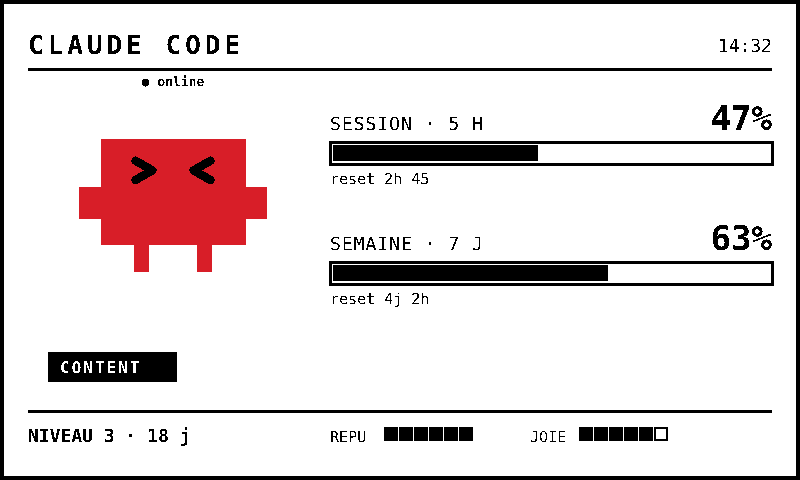
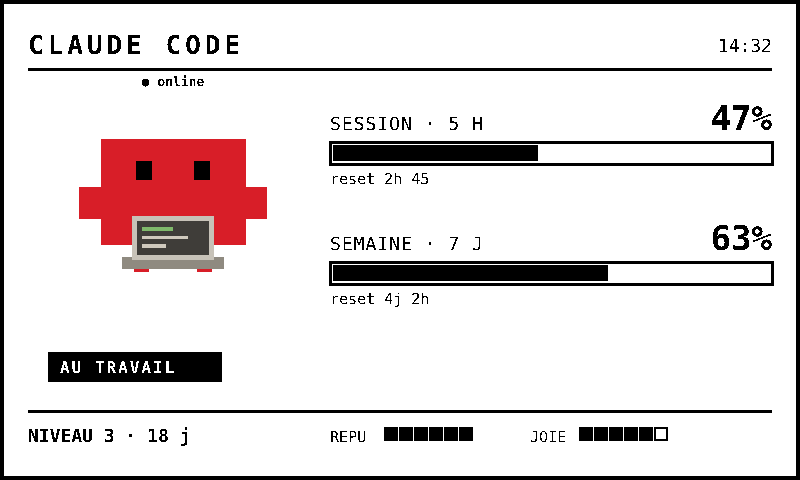
feat(e-paper): accessoires & objets de Clawd dans le rendu (parité avec l'écran)
clawdSvg dessine désormais bouche, accessoires (laptop, café, baguette, cœur,
ballon) et objets au-dessus de la tête (soleil, parapluie, chapeau, party, zzz)
en line-art N&B et en couleur — comme ClaudeCharacter côté web. viewBox élargie
vers le haut pour les objets qui dépassent. Visuels README régénérés.

Changed region(s): [[0.1562, 0.4375, 0.2812, 0.5625], [0.0625, 0.7188, 0.2812, 0.8125], [0.1562, 0.3125, 0.2812, 0.375]]

diff --git a/server/src/render.ts b/server/src/render.ts
@@ -7,11 +7,21 @@ import { loadConfig } from './config.js';
 // des polices système. Chemin résolu depuis dist/ comme depuis src/.
 const FONT_DIR = fileURLToPath(new URL('../fonts/', import.meta.url));
 const FONT_FILES = [`${FONT_DIR}DejaVuSansMono.ttf`, `${FONT_DIR}DejaVuSansMono-Bold.ttf`];
-import { formatReset, type ClawdEyes, type Pose } from './mascot.js';
+import {
+  formatReset,
+  type ClawdAccessory,
+  type ClawdEyes,
+  type ClawdMouth,
+  type ClawdOverhead,
+  type Pose,
+} from './mascot.js';
 
 const INK = '#000000';
 const PAPER = '#ffffff';
 const RED = '#d81e28';
+const PURPLE = '#a273f0';
+const SPARKLE = '#9b7cf0';
+const STEEL = '#8a857c';
 
 // --- Sprite Clawd (mêmes coordonnées que le composant web, viewBox 0 0 240 210) ---
 
@@ -45,21 +55,103 @@ function eyesSvg(eyes: ClawdEyes): string {
   }
 }
 
+function mouthSvg(mouth?: ClawdMouth): string {
+  if (mouth === 'line') return `<rect x="104" y="98" width="32" height="4" rx="1" fill="${INK}"/>`;
+  if (mouth === 'open') return `<rect x="108" y="92" width="24" height="16" rx="4" fill="${INK}"/>`;
+  if (mouth === 'kiss') return `<ellipse cx="114" cy="100" rx="5" ry="4" fill="${INK}"/>`;
+  return '';
+}
+
+function sparkleSvg(cx: number, cy: number, color: string, len = 12): string {
+  let s = '';
+  for (let i = 0; i < 8; i++)
+    s += `<rect x="${cx - 2}" y="${cy - len}" width="4" height="${len}" rx="2" fill="${color}" transform="rotate(${i * 45} ${cx} ${cy})"/>`;
+  return `${s}<circle cx="${cx}" cy="${cy}" r="3" fill="${color}"/>`;
+}
+
+const HEART_GRID = ['.XX.XX.', 'XXXXXXX', 'XXXXXXX', '.XXXXX.', '..XXX..', '...X...'];
+function pixelHeartSvg(x: number, y: number, px: number, fill: string): string {
+  let s = '';
+  HEART_GRID.forEach((row, r) =>
+    row.split('').forEach((c, col) => {
+      if (c === 'X') s += `<rect x="${x + col * px}" y="${y + r * px}" width="${px}" height="${px}" fill="${fill}"/>`;
+    }),
+  );
+  return s;
+}
+
+/** Accessoires tenus/posés (miroir mono/couleur de ClaudeCharacter.tsx). */
+function accessorySvg(kind: ClawdAccessory | undefined, mono: boolean): string {
+  if (!kind || kind === 'none') return '';
+  const S = mono ? INK : 'none';
+  const sw = mono ? 2 : 0;
+  const surf = (c: string) => (mono ? PAPER : c);
+  switch (kind) {
+    case 'laptop':
+      return `<rect x="78" y="138" width="84" height="10" fill="${surf('#8f8a80')}" stroke="${S}" stroke-width="${sw}"/><rect x="86" y="104" width="68" height="36" fill="${surf('#c7c2b8')}" stroke="${S}" stroke-width="${sw}"/><rect x="90" y="108" width="60" height="28" fill="${mono ? PAPER : '#3f3d39'}" stroke="${S}" stroke-width="${sw}"/><rect x="94" y="113" width="26" height="3" fill="${mono ? INK : '#7fb96b'}"/><rect x="94" y="120" width="38" height="3" fill="${mono ? INK : '#cfc9bd'}"/><rect x="94" y="127" width="20" height="3" fill="${mono ? INK : '#cfc9bd'}"/>`;
+    case 'coffee':
+      return `<rect x="196" y="78" width="22" height="22" fill="${surf('#b7b1a6')}" stroke="${INK}" stroke-width="2"/><path d="M218 83 q10 1 10 8 q0 7 -10 8" fill="none" stroke="${INK}" stroke-width="3"/><path d="M201 74 q3 -5 0 -9 M209 74 q3 -5 0 -9" fill="none" stroke="${mono ? INK : '#cfc9bd'}" stroke-width="2" stroke-linecap="round"/>`;
+    case 'ball':
+      return `<circle cx="172" cy="156" r="18" fill="${PAPER}" stroke="${INK}" stroke-width="2"/><polygon points="172,147 180,153 177,163 167,163 164,153" fill="${INK}"/><path d="M158 150 l4 5 M186 150 l-4 5 M166 170 l3 -4 M178 170 l-3 -4" stroke="${INK}" stroke-width="2"/>`;
+    case 'wand': {
+      const pts: [number, number][] = [[222, 44], [230, 50], [214, 50], [226, 58], [218, 60], [234, 58], [228, 40], [236, 50], [210, 58]];
+      let s = `<rect x="196" y="60" width="7" height="40" rx="2" fill="${INK}" transform="rotate(38 199 80)"/>`;
+      pts.forEach(([x, y], i) => {
+        const fill = mono ? (i % 2 ? PAPER : INK) : i % 2 ? '#fff' : '#e0b34a';
+        s += `<rect x="${x}" y="${y}" width="6" height="6" fill="${fill}" stroke="${mono ? INK : 'none'}" stroke-width="${mono ? 1 : 0}"/>`;
+      });
+      return s;
+    }
+    case 'heart':
+      return pixelHeartSvg(200, 62, 5, mono ? INK : '#e0533c');
+    default:
+      return '';
+  }
+}
+
+/** Objets au-dessus de la tête (chapeau, soleil, parapluie, zzz…). */
+function overheadSvg(kind: ClawdOverhead | undefined, mono: boolean): string {
+  if (!kind || kind === 'none') return '';
+  const S = mono ? INK : 'none';
+  const sw = mono ? 2 : 0;
+  const surf = (c: string) => (mono ? PAPER : c);
+  if (kind === 'zzz')
+    return `<g fill="${INK}" font-family="monospace" font-weight="bold"><text x="158" y="54" font-size="14">z</text><text x="170" y="40" font-size="18">Z</text><text x="186" y="24" font-size="24">Z</text></g>`;
+  if (kind === 'sparkle-hat')
+    return `<rect x="92" y="22" width="56" height="18" fill="${surf(PURPLE)}" stroke="${S}" stroke-width="${sw}"/><rect x="104" y="6" width="32" height="16" fill="${surf(PURPLE)}" stroke="${S}" stroke-width="${sw}"/><rect x="118.5" y="-38" width="3" height="46" fill="${mono ? INK : STEEL}"/>${sparkleSvg(120, -44, mono ? INK : SPARKLE)}`;
+  if (kind === 'party')
+    return `<polygon points="120,4 102,44 138,44" fill="${surf('#e0b34a')}" stroke="${INK}" stroke-width="2"/><circle cx="120" cy="4" r="5" fill="${mono ? INK : '#e0533c'}"/><circle cx="114" cy="22" r="3" fill="${mono ? INK : '#fff'}"/><circle cx="125" cy="32" r="3" fill="${mono ? INK : '#e0533c'}"/>`;
+  if (kind === 'sun') {
+    const cx = 202, cy = 22, r = 15;
+    let s = '';
+    for (let i = 0; i < 8; i++)
+      s += `<rect x="${cx - 1.5}" y="${cy - r - 10}" width="3" height="8" rx="1.5" fill="${mono ? INK : '#f2c14e'}" transform="rotate(${i * 45} ${cx} ${cy})"/>`;
+    return `${s}<circle cx="${cx}" cy="${cy}" r="${r}" fill="${surf('#f2c14e')}" stroke="${S}" stroke-width="${sw}"/>`;
+  }
+  if (kind === 'umbrella') {
+    const cx = 120, cy = -6, r = 44;
+    return `<rect x="${cx - 1.5}" y="-6" width="3" height="50" fill="${mono ? INK : STEEL}"/><path d="M${cx - r} ${cy} A${r} ${r} 0 0 1 ${cx + r} ${cy} Z" fill="${surf('#4a86c8')}" stroke="${INK}" stroke-width="2"/><path d="M${cx} ${cy - r} L${cx - r} ${cy} M${cx} ${cy - r} L${cx} ${cy} M${cx} ${cy - r} L${cx + r} ${cy}" stroke="${mono ? INK : '#2f6aa0'}" stroke-width="2"/><g stroke="${mono ? INK : '#7cc4ff'}" stroke-width="3" stroke-linecap="round"><path d="M62 14 l0 8"/><path d="M178 20 l0 8"/><path d="M72 36 l0 8"/><path d="M172 6 l0 8"/></g>`;
+  }
+  return '';
+}
+
+const TALL_OVERHEAD = ['party', 'zzz', 'sparkle-hat', 'sun', 'umbrella'];
+/** viewBox élargie vers le haut quand un objet dépasse au-dessus de la tête. */
+export function clawdViewBox(pose: Pose): string {
+  return pose.overhead && TALL_OVERHEAD.includes(pose.overhead) ? '0 -60 240 270' : '0 0 240 210';
+}
+
 function clawdSvg(pose: Pose, mono: boolean): string {
   const body = mono ? PAPER : RED;
-  const zzz =
-    pose.overhead === 'zzz'
-      ? `<g fill="${INK}" font-family="monospace" font-weight="bold"><text x="158" y="54" font-size="14">z</text><text x="170" y="40" font-size="18">Z</text><text x="186" y="24" font-size="24">Z</text></g>`
-      : '';
   const bodyShapes = `
     <rect x="60" y="40" width="120" height="88" fill="${body}"/>
     <rect x="42" y="80" width="18" height="26" fill="${body}"/>
     <rect x="180" y="80" width="18" height="26" fill="${body}"/>
     <rect x="88" y="128" width="12" height="22" fill="${body}"/>
     <rect x="140" y="128" width="12" height="22" fill="${body}"/>
-    ${eyesSvg(pose.eyes)}`;
+    ${eyesSvg(pose.eyes)}${mouthSvg(pose.mouth)}${accessorySvg(pose.accessory, mono)}`;
   const filter = mono ? ' filter="url(#mono)"' : '';
-  return `${zzz}<g${filter}>${bodyShapes}</g>`;
+  return `<g${filter}>${overheadSvg(pose.overhead, mono)}${bodyShapes}</g>`;
 }
 
 // radius élevé : à la taille compacte (crabe ~62px) le contour resterait
@@ -148,7 +240,7 @@ export function buildFull(d: PanelData, rotate: 0 | 180): string {
   <text x="${W - pad}" y="${pad + 24}" text-anchor="end" font-family="monospace" font-size="18" fill="${INK}">${d.time}</text>
   <rect x="${pad}" y="${pad + 40}" width="${W - 2 * pad}" height="3" fill="${INK}"/>
   <text x="173" y="86" text-anchor="middle" font-family="monospace" font-weight="bold" font-size="13" fill="${INK}">${d.online ? '● online' : '○ offline'}</text>
-  <svg x="${pad}" y="90" width="290" height="255" viewBox="0 0 240 210">${clawdSvg(d.pose, d.mono)}</svg>
+  <svg x="${pad}" y="90" width="290" height="255" viewBox="${clawdViewBox(d.pose)}">${clawdSvg(d.pose, d.mono)}</svg>
   <rect x="${pad + 20}" y="352" width="${title.length * 15 + 24}" height="30" fill="${INK}"/>
   <text x="${pad + 32}" y="373" font-family="monospace" font-weight="bold" font-size="16" letter-spacing="2" fill="${PAPER}">${title}</text>
   ${barRowFull(rx, 130, rw, 'SESSION · 5 H', d.five, d.fiveReset, d.red)}
@@ -190,7 +282,7 @@ export function buildCompact(d: PanelData, rotate: 0 | 180): string {
   const rx = 80, rw = 162;
   const inner = `
   <text x="37" y="14" text-anchor="middle" font-family="monospace" font-weight="bold" font-size="9" fill="${INK}">${d.online ? '● online' : '○ offline'}</text>
-  <svg x="4" y="17" width="67" height="59" viewBox="0 0 240 210">${clawdSvg(d.pose, d.mono)}</svg>
+  <svg x="4" y="17" width="67" height="59" viewBox="${clawdViewBox(d.pose)}">${clawdSvg(d.pose, d.mono)}</svg>
   <text x="37" y="87" text-anchor="middle" font-family="monospace" font-weight="bold" font-size="10" fill="${INK}">Nv.${d.level} · ${d.age}</text>
   ${statLineCompact(8, 93, 'REP', d.repu)}
   ${statLineCompact(8, 107, 'JOI', d.joie)}